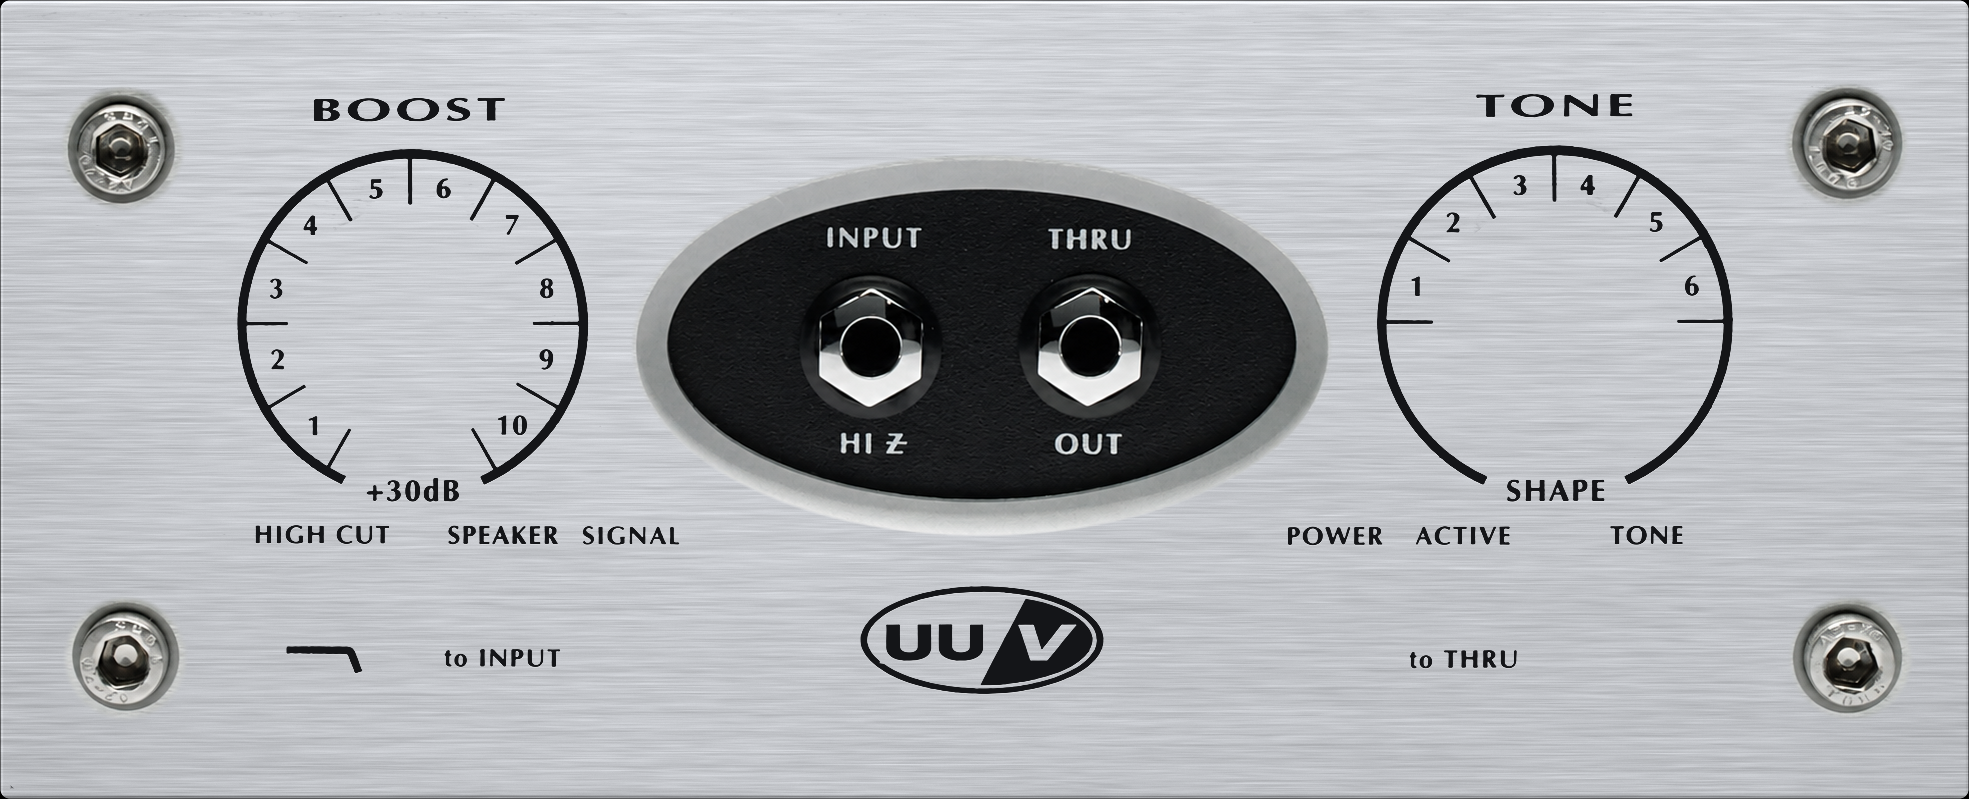
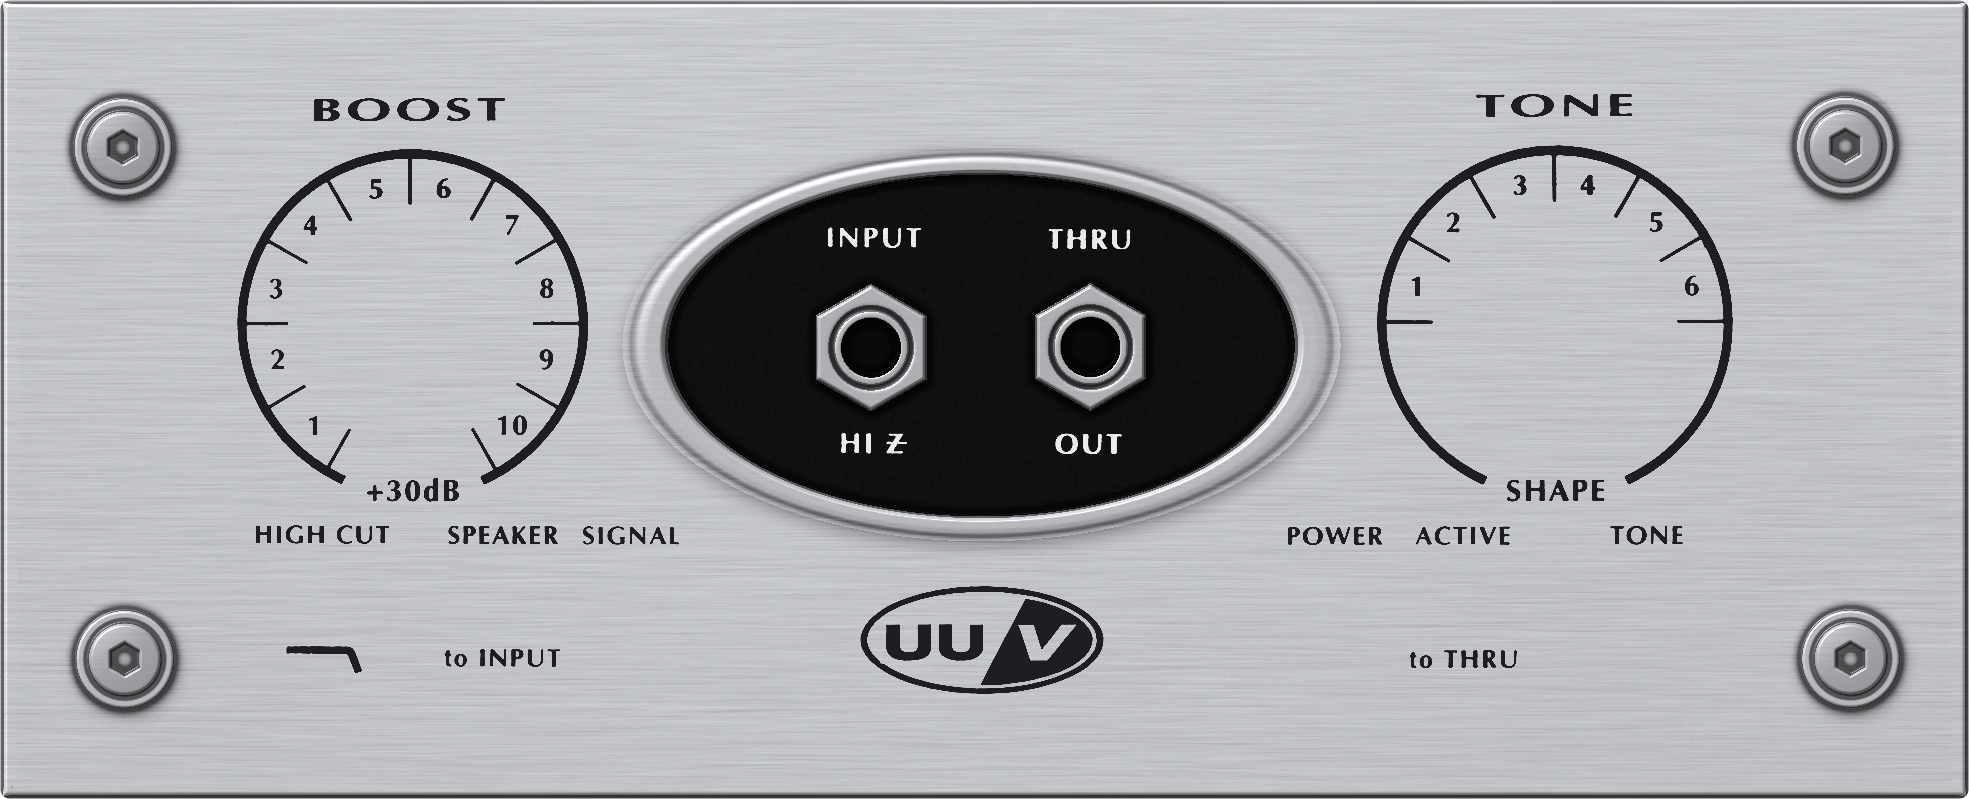
ui: new front plate, v1.1.0 stamp (macro-fed), depth research in

diff --git a/src/PluginEditor.cpp b/src/PluginEditor.cpp
@@ -382,6 +382,14 @@ void AbaloneW5AudioProcessorEditor::paint (juce::Graphics& g)
     else
         g.fillAll (juce::Colour (0xff1a1c20));
 
+    // Version stamp, bottom-left corner (small, dim — never on a control).
+    // From juce_add_plugin(VERSION) / test-target definitions, both fed by
+    // CMake project() VERSION — single source, bump there on release.
+    g.setFont (juce::Font (juce::FontOptions (11.0f * scale)));
+    g.setColour (juce::Colour (0xff8a8f96));
+    g.drawText ("v" JucePlugin_VersionString, juce::roundToInt (8.0f * scale), h - juce::roundToInt (20.0f * scale),
+                juce::roundToInt (120.0f * scale), juce::roundToInt (14.0f * scale), juce::Justification::left, false);
+
     // ABALONE masthead: the SVG asset centered in the header slot (texture
     // y=98.5 cap-center, ~50px cap to match the hardware badge; the slot box
     // is padded, drawWithin centres the art). No fallback: the embedded SVG
